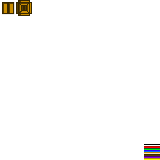
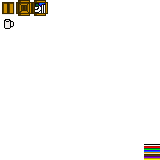
new tiles for donations

Changed region(s): [[0.1875, 0.0, 0.3125, 0.125], [0.0, 0.0938, 0.0938, 0.1875]]

diff --git a/todo.md b/todo.md
@@ -70,11 +70,8 @@
 * ( done ) - fix isshue where I can not have a mixture of subTypes of a person
 * ( done ) - fix isshue where wrong frame is set when spawning shoppers
 * ( done ) - have items snap to the grid
-
-
-  ARTWORK:
-* (      ) - have a tile for an open box with items in it
-* (      ) - have a tile for the white mug item
+* ( done ) - have a tile for an open box with items in it
+* ( done ) - have a tile for the white mug item
 
   DONATIONS, ITEMS DATABASE, INVENTORY:
 * (      ) - A box will need to be able to have child items
